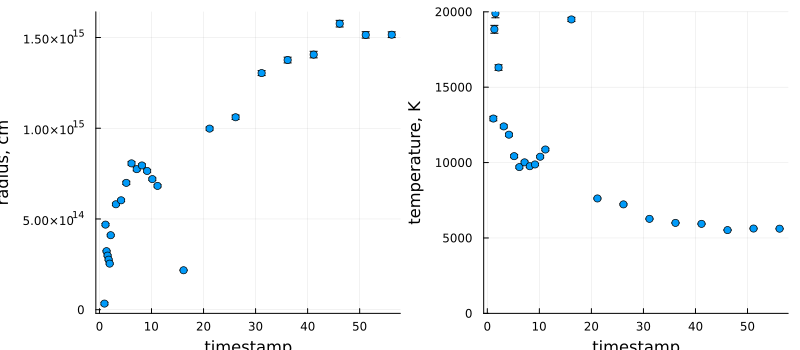
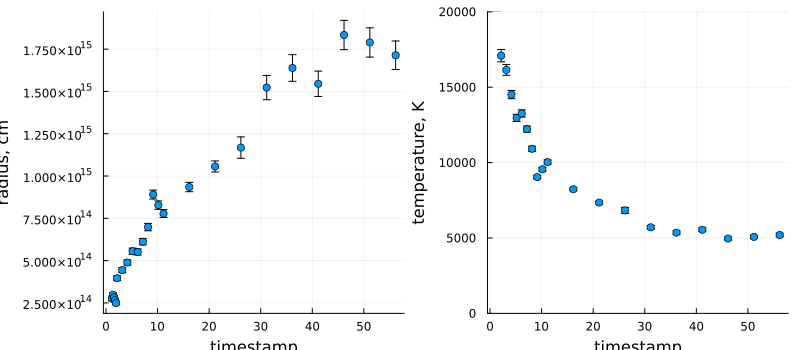
Add relative error to example

diff --git a/README.md b/README.md
@@ -25,7 +25,12 @@ import UnitfulAstro: ly         # Astronomical measurement units
 ser = read_photometry_data(                         # Read photometry data
     FilterFolder("data/Filters/", :photon),         # Filters info is located in this folder
     "data/data_13dqy_formatted_for_package.txt",    # And the photometry data is here
-    unit=Flux(dist=160e6ly))                # Photometry data is provided in flux values, star is 160Mly far
+    unit=Flux(dist=160e6ly))        # Photometry data is provided in flux values, star is 160Mly far away
+
+for (filter, s) in ser                              # Add relative error
+    lambda_eff(filter) < 3000 && continue
+    @. s.err = √(s.err^2 + (s.val * 0.1)^2)
+end
 
 dates = readdlm("data/13dqy_int_dates.txt") |> vec  # Dates where we will evaluate the spectrum
 
